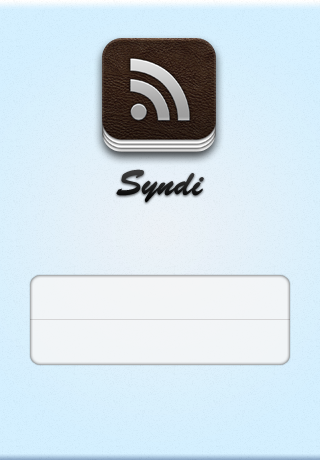
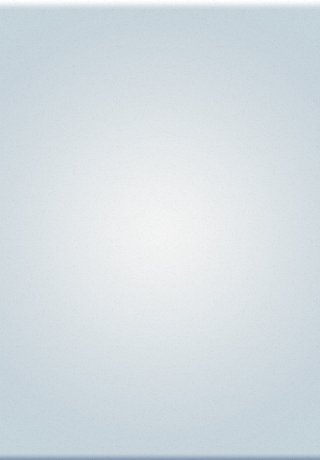
[Close #30] 로그인 페이지와 커버 페이지 디자인 정리

diff --git a/Atomier/LoginViewController.m b/Atomier/LoginViewController.m
@@ -14,16 +14,6 @@
 
 @implementation LoginViewController
 
-@synthesize delegate = _delegate;
-
-@synthesize emailField;
-@synthesize passwordField;
-@synthesize spinner;
-@synthesize alertField;
-@synthesize descriptionLabel;
-@synthesize backgroundImageView;
-@synthesize signInButton;
-
 - (void)didReceiveMemoryWarning
 {
     [super didReceiveMemoryWarning];
@@ -46,6 +36,8 @@
 	
 	if ([[UIDevice currentDevice] userInterfaceIdiom] == UIUserInterfaceIdiomPad) {
 		self.backgroundImageView.image = [UIImage imageNamed:@"syndi-login~ipad"];
+		self.logoImageView.hidden = YES;
+		self.submitFormBackgroundImageView.hidden = YES;
 	} else {
 		self.backgroundImageView.image = [UIImage imageNamed:@"syndi_login"];
 	}
@@ -106,6 +98,8 @@
 	[self setDescriptionLabel:nil];
 	[self setBackgroundImageView:nil];
 	[self setSignInButton:nil];
+    [self setLogoImageView:nil];
+    [self setSubmitFormBackgroundImageView:nil];
     [super viewDidUnload];
     // Release any retained subviews of the main view.
     // e.g. self.myOutlet = nil;

diff --git a/Atomier/LoginViewController.h b/Atomier/LoginViewController.h
@@ -25,6 +25,8 @@
 @property (weak, nonatomic) IBOutlet UILabel *descriptionLabel;
 @property (weak, nonatomic) IBOutlet UIImageView *backgroundImageView;
 @property (weak, nonatomic) IBOutlet UIButton *signInButton;
+@property (weak, nonatomic) IBOutlet UIImageView *logoImageView;
+@property (weak, nonatomic) IBOutlet UIImageView *submitFormBackgroundImageView;
 
 - (IBAction)login:(id)sender;
 
